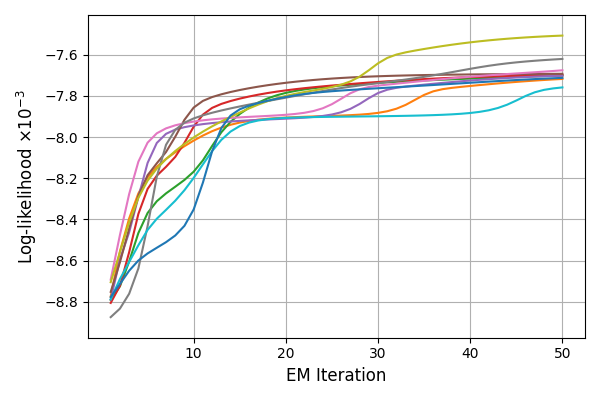
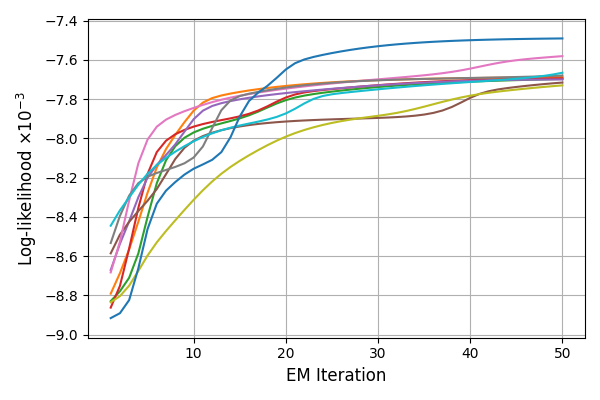
ran 4b again

diff --git a/Q4b.py b/Q4b.py
@@ -51,7 +51,7 @@ if __name__ == '__main__':
     # Define the covariance matrix, Q_1, of the initial hidden state, y_1
     Q_init = np.identity(4)
     # Define the total number of runs and the total number of EM iterations in each run
-    n_runs, n_iterations = 10, 100
+    n_runs, n_iterations = 20, 100
     # Define an (n_runs, n_iterations+1) sized array to collect the results of each EM run 
     all_log_likelihoods = np.zeros((n_runs, n_iterations+1))
 
@@ -83,10 +83,10 @@ if __name__ == '__main__':
 
     # Plot the log-likelihoods
     fig, axs = plt.subplots(1, 1, figsize=(6, 4))
-    for i, log_likelihoods in enumerate(first_50_log_ls, 1):
+    for i, log_likelihoods in enumerate(first_50_log_ls[:10], 1):
         axs.plot(range(1, 51), log_likelihoods/1000, color=f'C{i}')
     axs.set_xticks(range(10, 51, 10)) 
-    axs.set_ylim(first_50_log_ls.min()/1000-0.1, first_50_log_ls.max()/1000+0.1)
+    axs.set_ylim(first_50_log_ls[:10].min()/1000-0.1, first_50_log_ls[:10].max()/1000+0.1)
     axs.set_xlabel('EM Iteration', size=12)
     axs.set_ylabel(r'Log-likelihood $\times 10^{-3}$', size=12)
     axs.grid()
@@ -96,8 +96,8 @@ if __name__ == '__main__':
 
     # Plot the final log-likelihood in each run
     fig, axs = plt.subplots(1, 1, figsize=(6, 4))
-    axs.bar(range(1, n_runs+1), iter_50_log_ls/1000, color='blue')
-    axs.set_ylim(iter_50_log_ls.min()/1000-0.01, iter_50_log_ls.max()/1000+0.01)
+    axs.bar(range(1, 11), iter_50_log_ls[:10]/1000, color='blue')
+    axs.set_ylim(iter_50_log_ls[:10].min()/1000-0.01, iter_50_log_ls[:10].max()/1000+0.01)
     axs.set_xlabel('Run', size=12)
     axs.set_ylabel(r'Log-likelihood $\times 10^{-3}$', size=12)
     axs.grid()
@@ -106,7 +106,7 @@ if __name__ == '__main__':
     plt.close(fig)
 
     # Plot the standard deviation of the log-likelihoods
-    print(np.std(iter_50_log_ls))
+    print(np.std(iter_50_log_ls[:10]))
     fig, axs = plt.subplots(1, 1, figsize=(6, 4))
     axs.plot(np.std(all_log_likelihoods, axis=0), color='blue')
     axs.set_xticks(np.arange(0, n_iterations+1, 10))
@@ -118,7 +118,7 @@ if __name__ == '__main__':
     plt.close(fig)
 
     # Plot the range of the log-likelihoods
-    print(np.ptp(iter_50_log_ls, axis=0))
+    print(np.ptp(iter_50_log_ls[:10], axis=0))
     fig, axs = plt.subplots(1, 1, figsize=(6, 4))
     axs.plot(np.ptp(all_log_likelihoods, axis=0), color='blue')
     axs.set_xticks(np.arange(0, n_iterations+1, 10))
